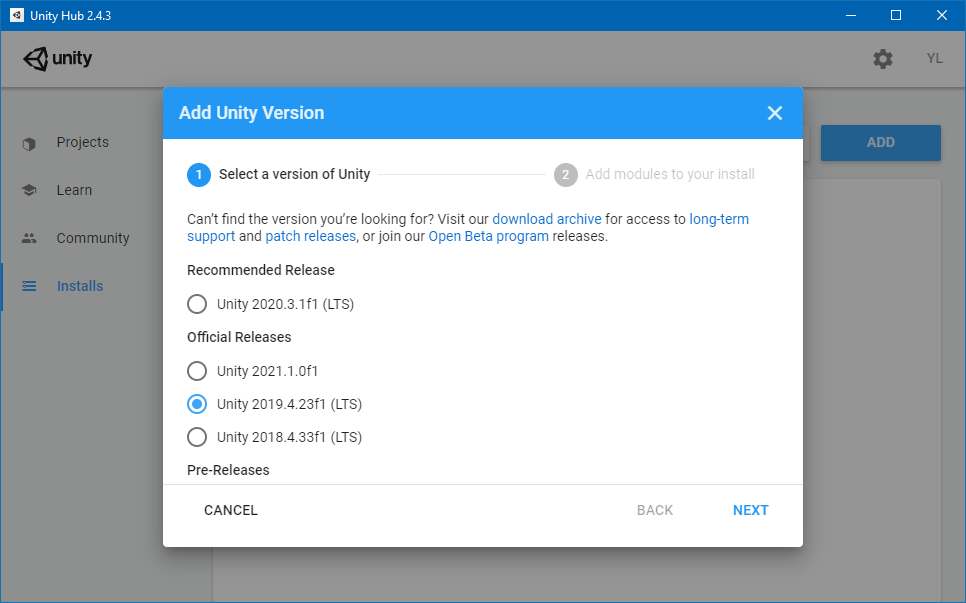
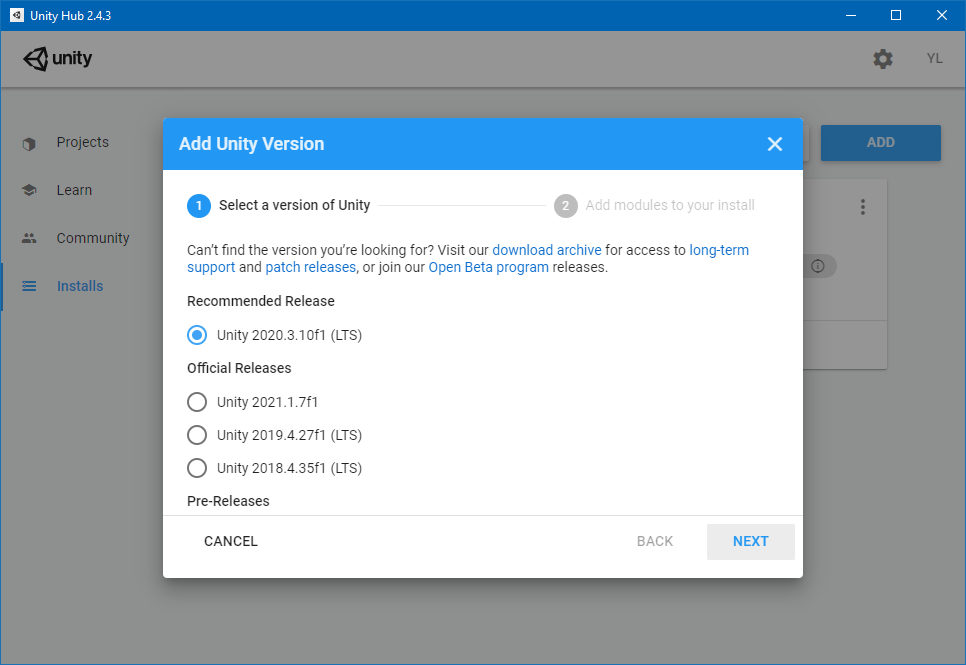
Update choosing unity version

diff --git a/mixed-reality-docs/mr-dev-docs/develop/unity/choosing-unity-version.md b/mixed-reality-docs/mr-dev-docs/develop/unity/choosing-unity-version.md
@@ -10,41 +10,21 @@ keywords: mixedrealitytoolkit, mixedrealitytoolkit-unity, mixed reality headset,
 
 # Choosing a Unity version and XR plugin
 
-While we currently **recommend installing Unity 2020.3 LTS with either the Windows XR or OpenXR plugins** for Mixed Reality development, you can build apps with other Unity configurations as well.
+While we currently **recommend installing Unity 2020.3 LTS with the latest Mixed Reality OpenXR plugin** for Mixed Reality development, you can build apps with other Unity configurations as well.
 
 ## Unity 2020.3 LTS (Recommended)
 
-If you’re using **Unity 2020.3 LTS**, you can use the **Windows XR plugin** to develop HoloLens 2 and Windows Mixed Reality applications.
+Microsoft’s current recommended Unity configuration for HoloLens 2 and Windows Mixed Reality development is **Unity 2020.3 LTS with the latest Mixed Reality OpenXR plugin**.
 
-However, there are known issues that affect hologram stability and other features on HoloLens 2: 
+> [!IMPORTANT]
+> Unity 2020 does not support targeting HoloLens (1st gen). These headsets remain supported in **[Unity 2019 LTS](#unity-20194-lts)** with Legacy Built-in XR for the full lifecycle of Unity 2019 LTS through mid-2022.
 
-* Holographic app remoting applications using the Universal Windows Platform build target are not working.
-* The Unity graphics jobs system is defaulted on, even though it is not compatible with HoloLens projects.
+The Mixed Reality OpenXR plugin fully supports AR Foundation 4.0, providing ARPlaneManager and ARRaycastManager implementations. This enables you to write hit-testing code once that then spans HoloLens 2 and ARCore/ARKit phones and tablets.
 
-If you choose to use Unity 2020, be sure to upgrade to Unity 2020.3.6f1 or later versions to ensure your user experience proper hologram stability.
-
-> [!div class="nextstepaction"]
-> [Using the Windows XR plugin](/windows/mixed-reality/develop/unity/xr-project-setup?tabs=windowsxr)
-
-### Using OpenXR
-
-Unity 2020.3 LTS also supports a public preview of the **Mixed Reality OpenXR** plugin.
-
-The Mixed Reality OpenXR plugin fully supports AR Foundation 4.0, providing ARPlaneManager and ARRaycastManager implementations. This enables you to write hit-testing code once that then spans HoloLens 2 and ARCore/ARKit phones and tablets. 
-
-Later this year, **Unity 2020.3 LTS with the OpenXR plugin** will become the recommended Unity configuration, and future HoloLens 2 features in Unity will be exposed only through this plugin.
-
-> [!div class="nextstepaction"]
-> [Using the OpenXR plugin](/windows/mixed-reality/develop/unity/xr-project-setup?tabs=openxr)
-
-## Unity 2019.4 LTS
-
-Microsoft’s current recommended Unity configuration for HoloLens 2 and Windows Mixed Reality development is **Unity 2019.4 LTS using Legacy Built-in XR** support.
-
-The best way to install and manage Unity is through the <a href="https://unity3d.com/get-unity/download" target="_blank">[Unity Hub]</a>. When it's installed, open Unity Hub:
+The best way to install and manage Unity is through the <a href="https://unity3d.com/get-unity/download" target="_blank">Unity Hub</a>. When it's installed, open Unity Hub:
 
 1. Select the **Installs** tab and choose **ADD**
-2. Select Unity 2019.4 LTS and click **Next**
+2. Select Unity 2020.3 LTS and click **Next**
 
 ![Unity hub instal new version](images/unity-hub-img-01.png)
 
@@ -58,7 +38,18 @@ The best way to install and manage Unity is through the <a href="https://unity3d
 
 ![Unity Windows Build Support option](../images/Unity_Install_Option_UWP2.png)
 
-To get started with Legacy Built-in XR in Unity 2019.4 LTS, click here:
+> [!div class="nextstepaction"]
+> [Using the OpenXR plugin](/windows/mixed-reality/develop/unity/xr-project-setup?tabs=openxr)
+
+> [!NOTE]
+> While we recommend using OpenXR for all new projects, Unity 2020.3 LTS also supports the **[Windows XR plugin](/windows/mixed-reality/develop/unity/xr-project-setup?tabs=windowsxr)**. Known issues that affect hologram stability and other features on HoloLens 2 include: 
+>
+> * Holographic app remoting applications using the Universal Windows Platform build target are not working.
+> * The Unity graphics jobs system is defaulted on, even though it is not compatible with HoloLens projects.
+
+## Unity 2019.4 LTS
+
+If you need to use Unity 2019, you can use **Unity 2019 LTS with Legacy Built-in XR**. To get started with Legacy Built-in XR in Unity 2019.4 LTS, click here:
 
 > [!div class="nextstepaction"]
 > [Set up Legacy Built-in XR](/windows/mixed-reality/develop/unity/xr-project-setup?tabs=legacy)

diff --git a/mixed-reality-docs/mr-dev-docs/develop/unity/includes/xr/intro.md b/mixed-reality-docs/mr-dev-docs/develop/unity/includes/xr/intro.md
@@ -1,13 +1,18 @@
 # [OpenXR](#tab/openxr)
 
-TBD...
+The Mixed Reality OpenXR plugin is **Microsoft's recommendation** for Unity 2020 LTS or later. As new features are developed, they will only be included in the Mixed Reality OpenXR plugin going forward.
+
+The Mixed Reality OpenXR plugin fully supports AR Foundation 4.0, providing ARPlaneManager and ARRaycastManager implementations. This enables you to write raycasting code once that then spans HoloLens 2 and ARCore/ARKit phones and tablets.
 
 # [Windows XR](#tab/windowsxr)
 
-For developers targeting Unity 2020, the Windows XR plugin enables access to mixed reality features on HoloLens 2 and Windows Mixed Reality headsets.  This plugin is also supported on Unity 2019, although there are some known incompatibilities with Azure Spatial Anchors when using this plugin on that version.
+Microsoft don't recommend using the Windows XR plugin for any new projects in Unity 2020.
 
-While Microsoft and the community have created opensource tools such as the [Mixed Reality Toolkit (MRTK)](https://microsoft.github.io/MixedRealityToolkit-Unity/Documentation/Installation.html) that will automatically set up the WMR environment, many developers wish to build their experiences from the ground up.  
+However, if you're using Unity 2019 and you need AR Foundation 2.0 for compatibility with ARCore/ARKit devices, this plugin enables that support.
+
+> [!IMPORTANT]
+> Using this plugin in Unity 2019 doesn't support Azure Spatial Anchors. 
 
 # [Legacy XR](#tab/legacy)
 
-TBD...
+If you're still on Unity 2019 or earlier, Microsoft recommends using the Legacy Built-in XR support. While the Windows XR plugin is functional on Unity 2019, it's not recommended because Azure Spatial Anchors isn't supported.

diff --git a/mixed-reality-docs/mr-dev-docs/develop/unity/xr-project-setup.md b/mixed-reality-docs/mr-dev-docs/develop/unity/xr-project-setup.md
@@ -28,4 +28,6 @@ Take a look at [MRTK's documentation](/windows/mixed-reality/mrtk-unity) for mor
 
 ## Manual setup without MRTK
 
+While Microsoft and the community have created opensource tools such as the [Mixed Reality Toolkit (MRTK)](https://microsoft.github.io/MixedRealityToolkit-Unity/Documentation/Installation.html) that will automatically set up the WMR environment, many developers wish to build their experiences from the ground up.
+
 [!INCLUDE[](includes/xr/manual-setup.md)]

diff --git a/mixed-reality-docs/mr-dev-docs/develop/choosing-an-engine.md b/mixed-reality-docs/mr-dev-docs/develop/choosing-an-engine.md
@@ -27,6 +27,8 @@ There are several development paths you can take through our documentation. The 
 
 ## Features and devices
 
+<br>
+
 | Logistics | Unity | Unreal | Babylon | Native (OpenXR) |
 |---|---|---|---|---|
 | Language | C# | C++ | JavaScript | C/C++ |
